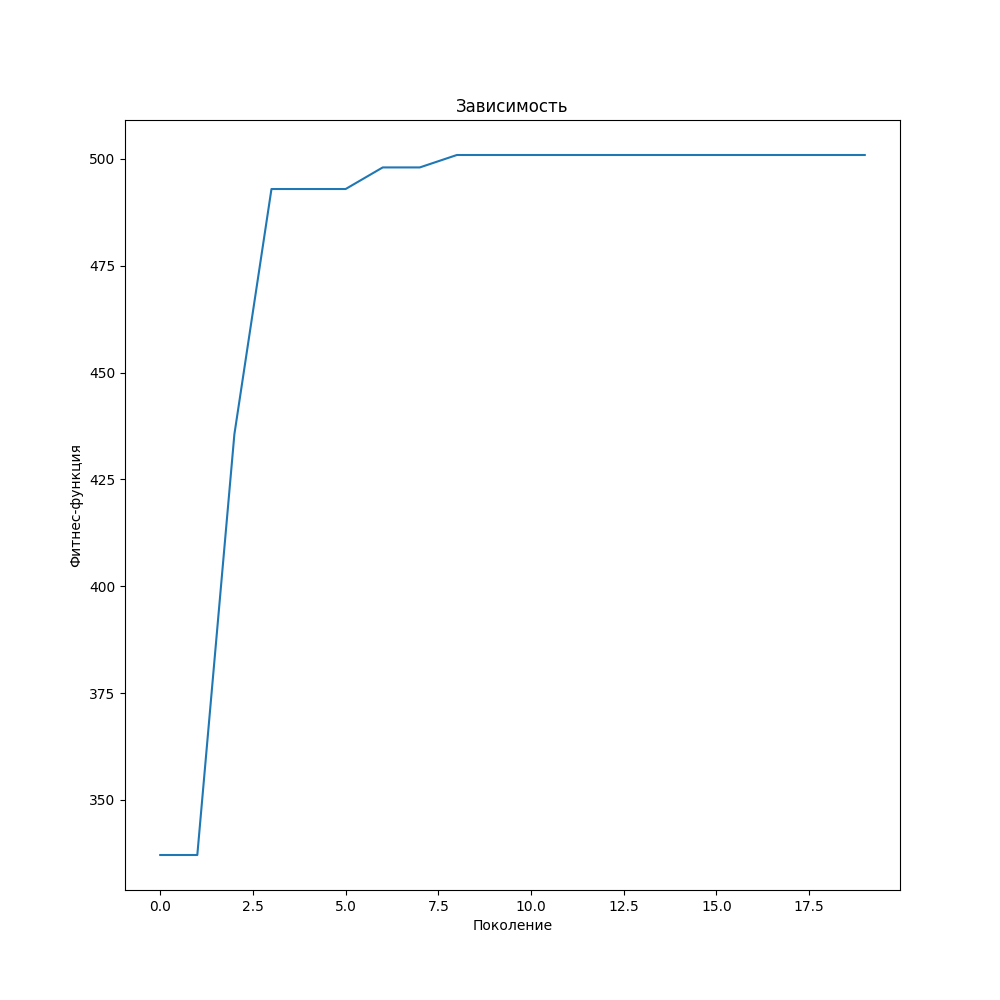
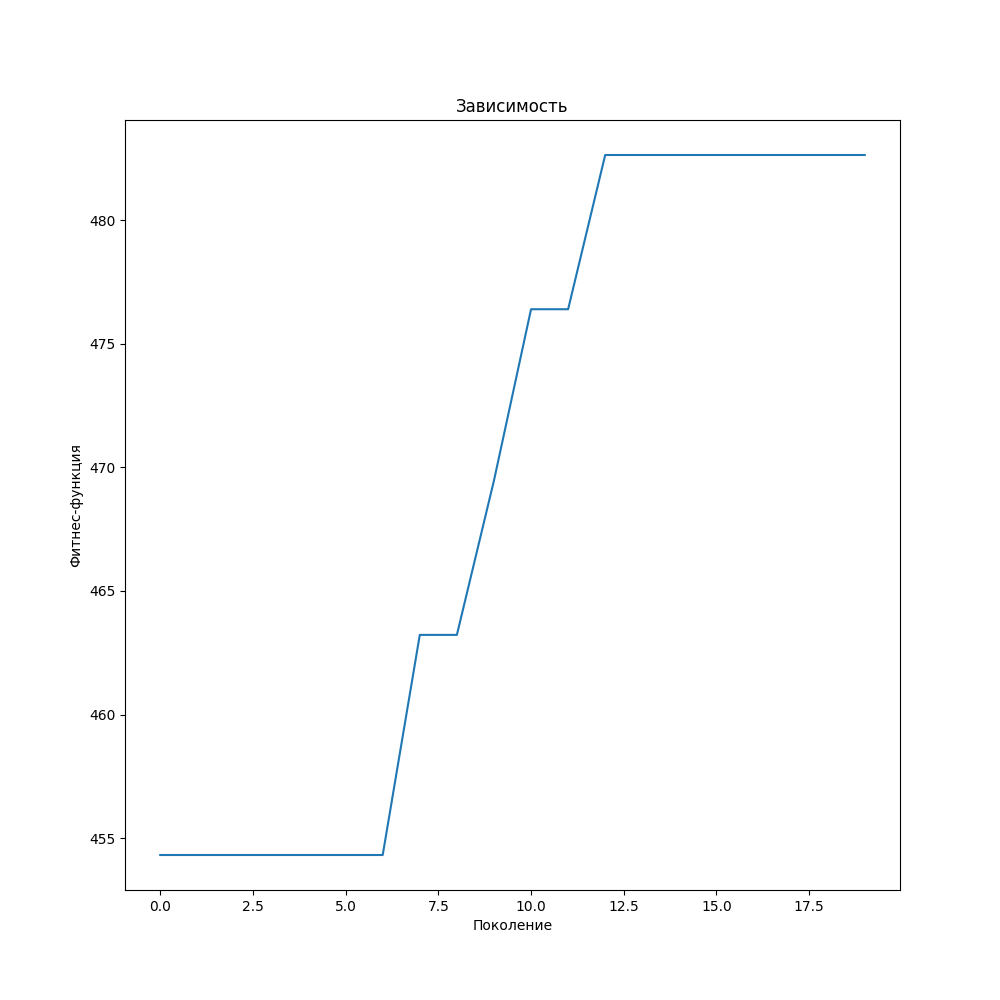
GA1: change parents selection function and add stop criteria

diff --git a/GA1/genetic_algorithm.py b/GA1/genetic_algorithm.py
@@ -40,18 +40,15 @@ def population_sort(images_population):
 # Функция отбора особей на основе бинарного турнира
 # -----------------------------------------------------------
 @njit(fastmath=True, cache=True)
-def binary_tournament(population, sample_size):
+def binary_tournament(population):
     selected_parents = []
-    population_size = len(population)
-    for i in range(sample_size):
-        i = random.randint(0, population_size - 1)
-        j = random.randint(0, population_size - 1)
-        while i == j:
-            j = random.randint(0, population_size - 1)
-        if population[i, 5] >= population[j, 5]:
-            selected_parents.append(population[i])
+    chromosomes = population.copy()
+    np.random.shuffle(chromosomes)
+    for i in range(0, len(chromosomes), 2):
+        if (chromosomes[i, 5] >= chromosomes[i + 1, 5]):
+            selected_parents.append(chromosomes[i])
         else:
-            selected_parents.append(population[j])
+            selected_parents.append(chromosomes[i + 1])
     return selected_parents
 
 
@@ -105,12 +102,21 @@ def mutation(children, mutation_rate):
 
 
 # -----------------------------------------------------------
+# Проверка критерия останова
+# Возвращает True, если значение фитнес-функции не
+# обновлялось в течение последних k_last поколений
+# -----------------------------------------------------------
+def is_stop_criteria(fintess_values, k_last):
+    return len(np.unique(fintess_values[-k_last:])) <= 1
+
+
+# -----------------------------------------------------------
 # Генетический алгоритм
 # -----------------------------------------------------------
 def gen_alg(image, mutation_rate):
     epochs = 20
     populationSize = 100
-    k = int(np.round(populationSize * 0.1))
+    k = int(np.round(populationSize * 0.05))
 
     global_brightness_value = global_brightness_value_calc(image)
 
@@ -129,7 +135,10 @@ def gen_alg(image, mutation_rate):
 
         fitness_values_array.append(k_best[-1, 5])
 
-        selected_parents = binary_tournament(sorted_population[:populationSize - k], int(populationSize / 2 - k))
+        if i > 10 and is_stop_criteria(fitness_values_array, 10):
+            break
+
+        selected_parents = binary_tournament(sorted_population[:populationSize - k])
 
         parents = np.concatenate((k_best, selected_parents), axis=0)
 
@@ -141,6 +150,7 @@ def gen_alg(image, mutation_rate):
             children[i, 5] = chromosome_improve(children[i], image,
                                                 global_brightness_value)
         images_population = np.concatenate((parents, children), axis=0)
+        populationSize = len(images_population)
 
     final_population = population_sort(images_population)
     best_chromo = final_population[-1]

diff --git a/GA1/improvement_criteria.py b/GA1/improvement_criteria.py
@@ -44,7 +44,10 @@ def measure_of_entropy(image):
 # -----------------------------------------------------------
 @njit(fastmath=True, cache=True)
 def level_of_adaptation(image):
-    middle_of_range = image.max() / 2
+    max_val = image.max()
+    if max_val == 0:
+        max_val = 1
+    middle_of_range = max_val / 2
     gl_br_val = np.mean(image)
     return  1 - (math.fabs(gl_br_val - middle_of_range) / middle_of_range)
 

diff --git a/GA1/transformation_kernel.py b/GA1/transformation_kernel.py
@@ -54,7 +54,7 @@ def standard_deviation_calc(image, i, j, av_br_val, n, off):
 
     black_area = 0
     white_area = 255
-    val = val + (n ** 2 * ((white_area - av_br_val) ** 2))
+    val = val + (n ** 2 * ((black_area - av_br_val) ** 2))
     return math.sqrt(val / (n ** 2) * 2)
 
 

diff --git a/GA1/main.py b/GA1/main.py
@@ -41,4 +41,4 @@ def load_image(path):
 
 
 if __name__ == '__main__':
-    load_image('../imgs/kaka.jfif')
+    load_image('../imgs/CM2.jpg')
